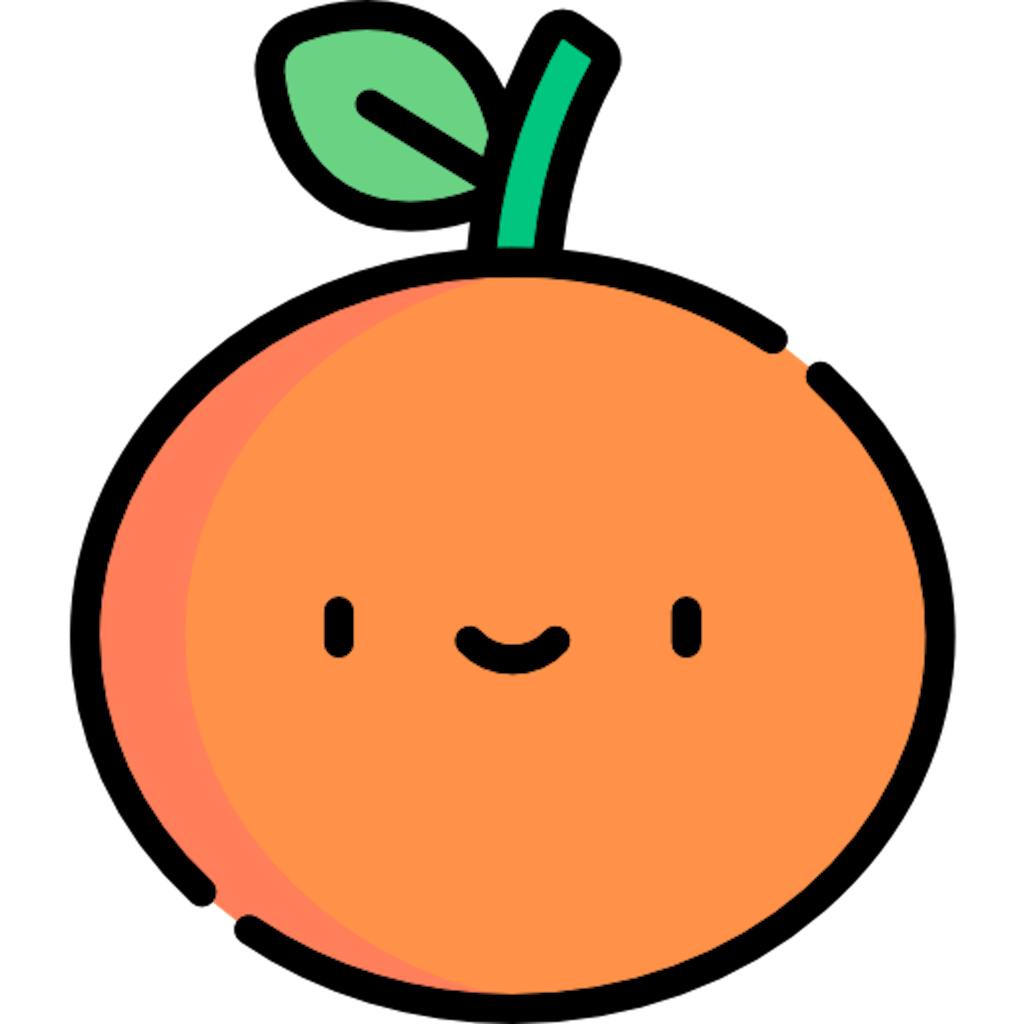
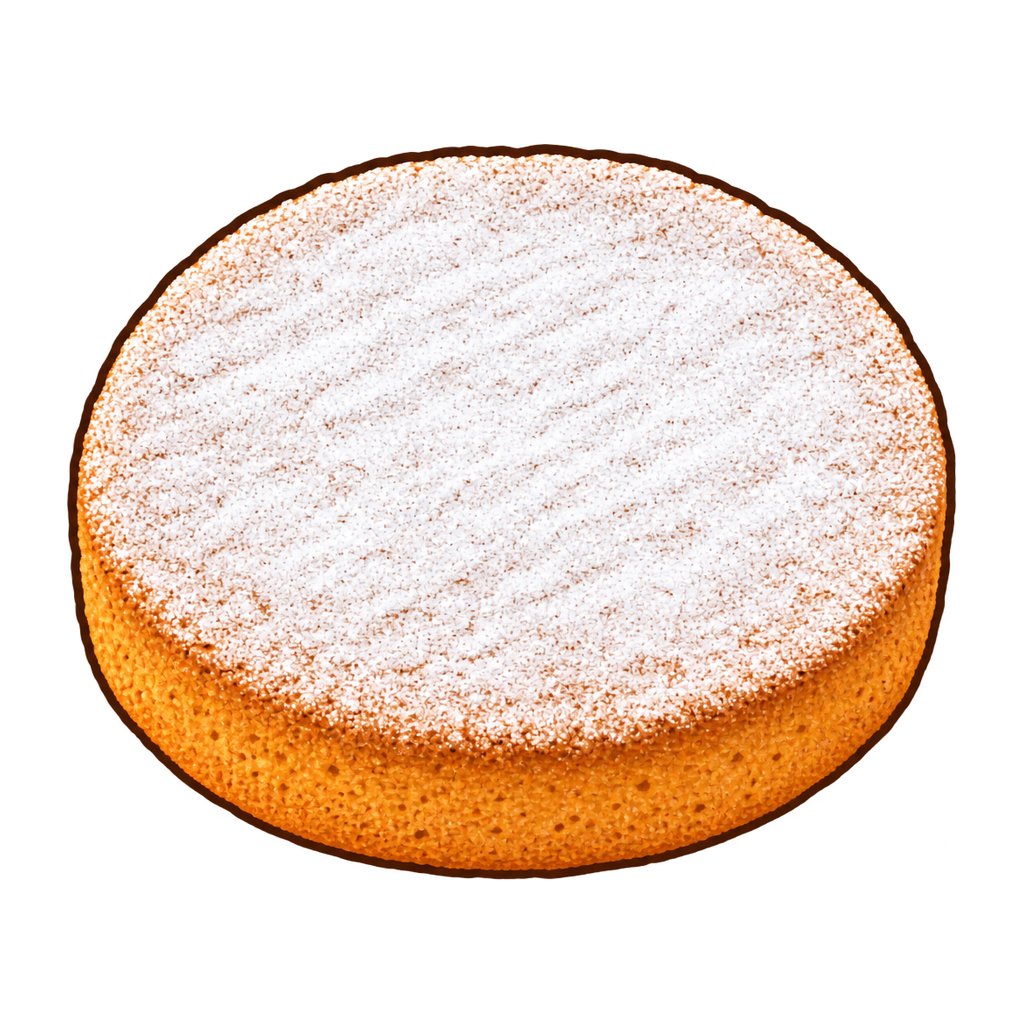
Add files via upload

diff --git a/Part2.swift b/Part2.swift
@@ -2217,8 +2217,180 @@ final class FavoriteAwakeManager {
     }
 }
 
+
+// MARK: - 독립 잠자기 방지 전역 토글 단축키
+// Carbon의 정식 RegisterEventHotKey로 설정된 조합만 수신합니다.
+// Finder/다른 앱의 키 이벤트를 감시·변조하거나 파일 드래그 입력에 관여하지 않습니다.
+final class FavoriteAwakeHotKey {
+    static let shared = FavoriteAwakeHotKey()
+    private static let signature: OSType = 0x30304656  // '00FV'
+    private static let identifier: UInt32 = 1
+    private static let shortcutKey = "favorite_awake_toggle_hotkey_v1"
+    private static let durationKey = "favorite_awake_toggle_duration_v1"
+
+    enum Preset: Int, CaseIterable {
+        case disabled = 0
+        case commandOptionControlK = 1
+        case commandOptionControlJ = 2
+        case commandOptionControlL = 3
+
+        var name: String {
+            switch self {
+            case .disabled: return "사용 안 함"
+            case .commandOptionControlK: return "⌃⌥⌘K (권장)"
+            case .commandOptionControlJ: return "⌃⌥⌘J"
+            case .commandOptionControlL: return "⌃⌥⌘L"
+            }
+        }
+        var keyCode: UInt32? {
+            switch self {
+            case .disabled: return nil
+            case .commandOptionControlK: return UInt32(kVK_ANSI_K)
+            case .commandOptionControlJ: return UInt32(kVK_ANSI_J)
+            case .commandOptionControlL: return UInt32(kVK_ANSI_L)
+            }
+        }
+    }
+
+    private(set) var preset: Preset
+    private(set) var toggleMinutes: Int
+    private(set) var lastNotice: String = ""
+    private var hotKeyRef: EventHotKeyRef?
+    private var handlerRef: EventHandlerRef?
+    private var lastToggleUptime: TimeInterval = -10
+
+    private init() {
+        let defaults = UserDefaults.standard
+        if defaults.object(forKey: Self.shortcutKey) != nil {
+            preset = Preset(rawValue: defaults.integer(forKey: Self.shortcutKey)) ?? .commandOptionControlK
+        } else {
+            preset = .commandOptionControlK
+        }
+        let saved = defaults.object(forKey: Self.durationKey) as? Int ?? 60
+        toggleMinutes = [5, 15, 30, 60, 120, 240, 480, -1].contains(saved) ? saved : 60
+    }
+
+    var toggleDurationLabel: String {
+        switch toggleMinutes {
+        case 5: return "5분"
+        case 15: return "15분"
+        case 30: return "30분"
+        case 60: return "1시간"
+        case 120: return "2시간"
+        case 240: return "4시간"
+        case 480: return "8시간"
+        default: return "직접 해제할 때까지"
+        }
+    }
+
+    private static let eventCallback: EventHandlerUPP = { _, event, _ in
+        guard let event = event else { return OSStatus(eventNotHandledErr) }
+        var receivedID = EventHotKeyID()
+        let result = GetEventParameter(
+            event,
+            UInt32(kEventParamDirectObject),
+            EventParamType(typeEventHotKeyID),
+            nil,
+            MemoryLayout<EventHotKeyID>.size,
+            nil,
+            &receivedID
+        )
+        guard result == noErr,
+              receivedID.signature == FavoriteAwakeHotKey.signature,
+              receivedID.id == FavoriteAwakeHotKey.identifier else {
+            return OSStatus(eventNotHandledErr)
+        }
+        DispatchQueue.main.async { FavoriteAwakeHotKey.shared.toggle() }
+        return noErr
+    }
+
+    private func ensureHandler() -> Bool {
+        if handlerRef != nil { return true }
+        var eventSpec = EventTypeSpec(
+            eventClass: UInt32(kEventClassKeyboard),
+            eventKind: UInt32(kEventHotKeyPressed)
+        )
+        let result = InstallEventHandler(
+            GetApplicationEventTarget(), Self.eventCallback, 1, &eventSpec, nil, &handlerRef
+        )
+        if result != noErr {
+            lastNotice = "단축키 이벤트 등록 실패 (\(result))"
+            return false
+        }
+        return true
+    }
+
+    private func register(_ chosen: Preset) -> Bool {
+        guard let keyCode = chosen.keyCode else { return true }
+        guard ensureHandler() else { return false }
+        var newRef: EventHotKeyRef?
+        let mods = UInt32(controlKey | optionKey | cmdKey)
+        let id = EventHotKeyID(signature: Self.signature, id: Self.identifier)
+        let result = RegisterEventHotKey(
+            keyCode, mods, id, GetApplicationEventTarget(), 0, &newRef
+        )
+        guard result == noErr, let registeredRef = newRef else {
+            lastNotice = "⌃⌥⌘ 조합을 등록하지 못했습니다(\(result)). 다른 앱의 단축키와 충돌할 수 있습니다."
+            return false
+        }
+        hotKeyRef = registeredRef
+        lastNotice = ""
+        return true
+    }
+
+    func startMonitoring() {
+        _ = register(preset)
+    }
+
+    @discardableResult
+    func changePreset(_ chosen: Preset) -> Bool {
+        guard chosen != preset else { return true }
+        let old = preset
+        if let existing = hotKeyRef { _ = UnregisterEventHotKey(existing); hotKeyRef = nil }
+        if register(chosen) {
+            preset = chosen
+            UserDefaults.standard.set(chosen.rawValue, forKey: Self.shortcutKey)
+            return true
+        }
+        let failureNotice = lastNotice
+        // 새 단축키가 실패하더라도 기존 단축키를 복구합니다.
+        if !register(old) { lastNotice = failureNotice + " 기존 단축키 재등록도 실패했습니다." }
+        else { lastNotice = failureNotice }
+        return false
+    }
+
+    func setToggleMinutes(_ minutes: Int) {
+        guard [5, 15, 30, 60, 120, 240, 480, -1].contains(minutes) else { return }
+        toggleMinutes = minutes
+        UserDefaults.standard.set(minutes, forKey: Self.durationKey)
+    }
+
+    func toggle() {
+        let now = ProcessInfo.processInfo.systemUptime
+        // 누르고 있는 동안 반복 발생하는 키 이벤트로 ON/OFF가 여러 번 바뀌지 않게 보호합니다.
+        guard now - lastToggleUptime > 0.5 else { return }
+        lastToggleUptime = now
+        let awake = FavoriteAwakeManager.shared
+        if awake.isActive {
+            awake.stop()
+        } else if !awake.start(minutes: toggleMinutes == -1 ? nil : toggleMinutes) {
+            ToolWindowManager.shared.showBanner(message: awake.lastNotice.isEmpty ? "잠자기 방지 실행 실패" : awake.lastNotice)
+        }
+    }
+
+    func stopMonitoring() {
+        if let ref = hotKeyRef { _ = UnregisterEventHotKey(ref); hotKeyRef = nil }
+        if let ref = handlerRef { _ = RemoveEventHandler(ref); handlerRef = nil }
+    }
+}
+
 class AppDelegate: NSObject, NSApplicationDelegate {
     var statusItem: NSStatusItem!
+    private lazy var awakeCakeIcon: NSImage? = {
+        guard let path = Bundle.main.path(forResource: "icon_awake", ofType: "png") else { return nil }
+        return NSImage(contentsOfFile: path)
+    }()
+    private let buildIdentifier = "FAV-20261120-HK1"
     var wheelPanel: NSPanel?
     var wheelCenterPoint: NSPoint = .zero
     
@@ -2247,10 +2419,11 @@ class AppDelegate: NSObject, NSApplicationDelegate {
         let options = [kAXTrustedCheckOptionPrompt.takeUnretainedValue() as String: true] as CFDictionary
         _ = AXIsProcessTrustedWithOptions(options)
         
+        FavoriteAwakeHotKey.shared.startMonitoring()
         statusItem = NSStatusBar.system.statusItem(withLength: NSStatusItem.variableLength)
         updateStatusBarMenu()
         JobProgressManager.shared.onUpdate = { [weak self] in self?.updateStatusBarMenu() }
-        // 수동 잠자기 방지는 파일 변환 상태와 완전히 독립적으로 관리합니다.
+        // 잠자기 방지와 파일 변환의 실행/종료는 연결하지 않습니다. 메뉴 아이콘 상태만 갱신합니다.
         FavoriteAwakeManager.shared.onChange = { [weak self] in
             DispatchQueue.main.async { self?.updateStatusBarMenu() }
         }
@@ -2275,25 +2448,29 @@ class AppDelegate: NSObject, NSApplicationDelegate {
     
     func updateStatusBarMenu() {
         let jobs = JobProgressManager.shared.jobs
+        let isAwake = FavoriteAwakeManager.shared.isActive
+        let currentCakeIcon = (isAwake ? awakeCakeIcon : nil) ?? FileProcessor.customAppIconImage()
+        if let appIcon = currentCakeIcon { NSApp.applicationIconImage = appIcon }
         if let btn = statusItem.button {
-            if let overall = JobProgressManager.shared.overallProgress {
-                let pct = Int((overall * 100.0).rounded())
-                btn.image = NSImage(systemSymbolName: "gearshape.arrow.triangle.2.circlepath", accessibilityDescription: "Processing")
-                btn.title = " \(pct)%"
+            if let cake = currentCakeIcon {
+                let menuIcon = (cake.copy() as? NSImage) ?? cake
+                menuIcon.size = NSSize(width: 18, height: 18)
+                menuIcon.isTemplate = false
+                btn.image = menuIcon
+                btn.toolTip = isAwake ? "잠자기 방지 켜짐 · 00Favorite" : "잠자기 방지 꺼짐 · 00Favorite"
             } else {
-                if let customIcon = FileProcessor.customAppIconImage() {
-                    let menuIcon = (customIcon.copy() as? NSImage) ?? customIcon
-                    menuIcon.size = NSSize(width: 18, height: 18)
-                    menuIcon.isTemplate = false
-                    btn.image = menuIcon
-                } else {
-                    btn.image = NSImage(systemSymbolName: "circle.hexagongrid.fill", accessibilityDescription: "00Favorite")
-                }
+                btn.image = NSImage(systemSymbolName: "circle.hexagongrid.fill", accessibilityDescription: "00Favorite")
+            }
+            // 파일 변환 작업의 진행률은 아이콘 상태와 무관하게 숫자로 표시합니다.
+            if let overall = JobProgressManager.shared.overallProgress {
+                btn.title = " \(Int((overall * 100.0).rounded()))%"
+            } else {
                 btn.title = ""
             }
         }
         let menu = NSMenu()
         menu.addItem(NSMenuItem(title: "⭐ 00Favorite 4.8 Pro (대용량 초고속 최적화)", action: nil, keyEquivalent: ""))
+        menu.addItem(NSMenuItem(title: "빌드 확인: \(buildIdentifier)", action: nil, keyEquivalent: ""))
         menu.addItem(NSMenuItem.separator())
         if jobs.isEmpty {
             menu.addItem(NSMenuItem(title: "대기 중 (현재 진행 중인 변환 작업 없음)", action: nil, keyEquivalent: ""))
@@ -2348,6 +2525,39 @@ class AppDelegate: NSObject, NSApplicationDelegate {
         stopItem.target = self
         stopItem.isEnabled = awake.isActive
         submenu.addItem(stopItem)
+        let hotkey = FavoriteAwakeHotKey.shared
+        let toggleItem = NSMenuItem(title: "⏻ 잠자기 방지 토글 (\(hotkey.preset.name))", action: #selector(toggleAwakeByMenu), keyEquivalent: "")
+        toggleItem.target = self
+        submenu.addItem(toggleItem)
+        submenu.addItem(NSMenuItem.separator())
+        let hotkeyRoot = NSMenuItem(title: "⌨ 토글 단축키 설정", action: nil, keyEquivalent: "")
+        let hotkeyOptions = NSMenu(title: "토글 단축키")
+        for choice in FavoriteAwakeHotKey.Preset.allCases {
+            let option = NSMenuItem(title: choice.name, action: #selector(changeAwakeHotkey(_:)), keyEquivalent: "")
+            option.target = self
+            option.tag = choice.rawValue
+            option.state = choice == hotkey.preset ? .on : .off
+            hotkeyOptions.addItem(option)
+        }
+        hotkeyRoot.submenu = hotkeyOptions
+        submenu.addItem(hotkeyRoot)
+        if !hotkey.lastNotice.isEmpty {
+            submenu.addItem(NSMenuItem(title: "단축키 상태: \(hotkey.lastNotice)", action: nil, keyEquivalent: ""))
+        }
+        let durationRoot = NSMenuItem(title: "⏱ 토글 켤 때 유지 시간 · \(hotkey.toggleDurationLabel)", action: nil, keyEquivalent: "")
+        let durationMenu = NSMenu(title: "토글 유지 시간")
+        for (minutes, label) in [
+            (5, "5분"), (15, "15분"), (30, "30분"), (60, "1시간"),
+            (120, "2시간"), (240, "4시간"), (480, "8시간"), (-1, "직접 해제할 때까지")
+        ] {
+            let item = NSMenuItem(title: label, action: #selector(changeAwakeHotkeyDuration(_:)), keyEquivalent: "")
+            item.target = self
+            item.tag = minutes
+            item.state = minutes == hotkey.toggleMinutes ? .on : .off
+            durationMenu.addItem(item)
+        }
+        durationRoot.submenu = durationMenu
+        submenu.addItem(durationRoot)
         submenu.addItem(NSMenuItem.separator())
 
         let computerOnly = NSMenuItem(title: "Mac만 깨어 있기 (화면 자동 꺼짐 허용)", action: #selector(useSystemOnlyAwake), keyEquivalent: "")
@@ -2377,6 +2587,22 @@ class AppDelegate: NSObject, NSApplicationDelegate {
         submenu.addItem(NSMenuItem(title: "Mac 덮개 닫기·직접 잠자기는 막지 않음", action: nil, keyEquivalent: ""))
         parent.submenu = submenu
         return parent
+    }
+
+    @objc private func toggleAwakeByMenu() {
+        FavoriteAwakeHotKey.shared.toggle()
+        updateStatusBarMenu()
+    }
+    @objc private func changeAwakeHotkey(_ sender: NSMenuItem) {
+        guard let choice = FavoriteAwakeHotKey.Preset(rawValue: sender.tag) else { return }
+        if !FavoriteAwakeHotKey.shared.changePreset(choice) {
+            ToolWindowManager.shared.showBanner(message: FavoriteAwakeHotKey.shared.lastNotice)
+        }
+        updateStatusBarMenu()
+    }
+    @objc private func changeAwakeHotkeyDuration(_ sender: NSMenuItem) {
+        FavoriteAwakeHotKey.shared.setToggleMinutes(sender.tag)
+        updateStatusBarMenu()
     }
 
     @objc private func startAwake(_ sender: NSMenuItem) {
@@ -2417,6 +2643,7 @@ class AppDelegate: NSObject, NSApplicationDelegate {
     }
 
     func applicationWillTerminate(_ notification: Notification) {
+        FavoriteAwakeHotKey.shared.stopMonitoring()
         FavoriteAwakeManager.shared.shutdown()
         // 기존 휠 감시와 변환 처리 방식은 변경하지 않습니다.
     }

diff --git a/Part1.swift b/Part1.swift
@@ -1,4 +1,5 @@
 import Cocoa
+import Carbon
 import SwiftUI
 import AVFoundation
 import AVKit
@@ -1779,6 +1780,8 @@ struct HelpAndSettingsView: View {
                             delegate?.updateStatusBarMenu()
                         }
                     Toggle("Finder에서 시작한 파일 드래그만 감지 (권장)", isOn: $settings.finderOnlyDetection)
+                    Text("잠자기 방지 토글은 기본 ⌃ Control + ⌥ Option + ⌘ Command + K입니다. 메뉴바의 [잠자기 방지 → 단축키 설정]에서 다른 조합 또는 해제를 선택할 수 있으며, 파일 드래그 단축키와 독립적으로 작동합니다.")
+                        .font(.caption2).foregroundColor(.secondary)
                     Text("기존 Shift / Option+Shift / Control 키는 유지합니다. 파일 드래그를 시작한 다음 해당 조합을 새로 눌러야만 휠이 열립니다. 평소 Finder의 Shift 선택·드래그에는 반응하지 않습니다.")
                         .font(.caption2).foregroundColor(.secondary)
                 }
